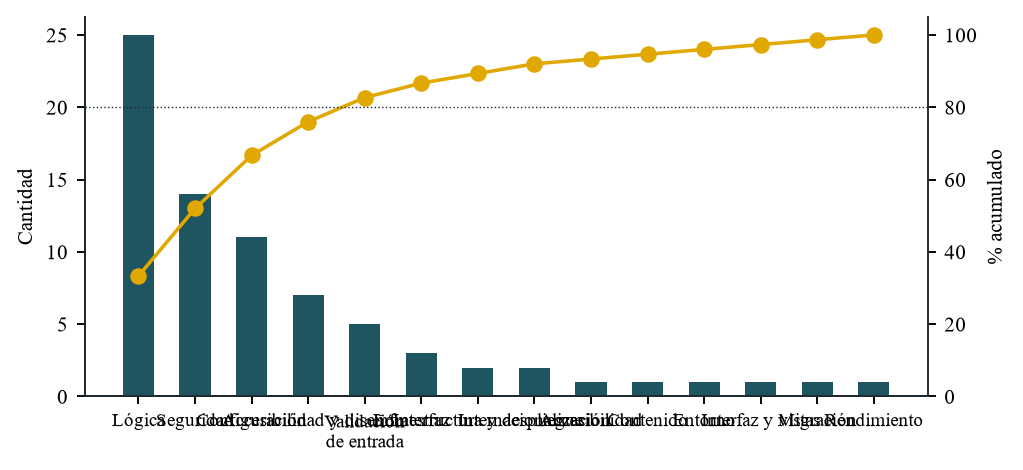
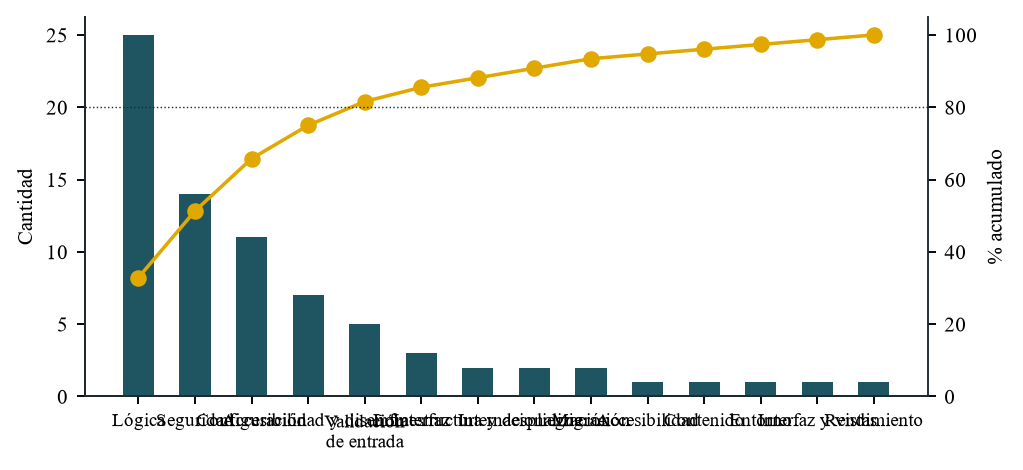
docs: log the Grafana role that the migration could not drop on Supabase

diff --git a/qa/datos_calidad.py b/qa/datos_calidad.py
@@ -314,6 +314,9 @@ DEFECTOS = [
     ('DEF-075', '18-nov-2026', 'Reporte del usuario', 'El administrador no podía activar las notificaciones push en Windows: el botón se quedaba cargando',
      'static/src/js/push_setup.js', 'La página esperaba navigator.serviceWorker.ready, que sólo se cumple con un service worker que controle la página; /web queda fuera del alcance /bus_tracking/ del nuestro y la espera no terminaba.',
      'Lógica', 'Cerrado', 'Chrome (FCM) y Edge (WNS) en Windows: activar, registrar el dispositivo y enviar la prueba; test_push comprueba que no se espera a ready'),
+    ('DEF-076', '18-nov-2026', 'Despliegue de v1.0.0-rc1 en Azure', 'La migración 16.0.1.9.0 no pudo borrar el rol grafana_reader en Supabase',
+     'migrations/16.0.1.9.0/pre-migrate.py', 'Desde PostgreSQL 16, DROP OWNED BY exige ser miembro del rol; el usuario postgres de Supabase no es superusuario y no lo era.',
+     'Migración', 'Cerrado', 'En la base de producción: GRANT al usuario actual, DROP OWNED y DROP ROLE en una transacción, 0 roles restantes; test_migration_grafana'),
 ]
 
 # Ishikawa 1: why bad input reaches the system (DEF-008 to DEF-010).

diff --git a/docs/calidad/05-registro-de-defectos.md b/docs/calidad/05-registro-de-defectos.md
@@ -83,8 +83,9 @@ Cada defecto se registra con tres campos separados: fallo observado, defecto loc
 | DEF-073 | 17-nov-2026 | Reporte en PDF | Descargar el reporte abría «Configure el diseño de sus documentos» en vez del PDF | models/bus_report.py | Cerrado |
 | DEF-074 | 18-nov-2026 | Prueba del tablero de flota | Error del cliente de Odoo al salir del mapa en vivo mientras hace el primer zoom | static/src/js/live_map.js | Cerrado |
 | DEF-075 | 18-nov-2026 | Reporte del usuario | El administrador no podía activar las notificaciones push en Windows: el botón se quedaba cargando | static/src/js/push_setup.js | Cerrado |
+| DEF-076 | 18-nov-2026 | Despliegue de v1.0.0-rc1 en Azure | La migración 16.0.1.9.0 no pudo borrar el rol grafana_reader en Supabase | migrations/16.0.1.9.0/pre-migrate.py | Cerrado |
 
-Resumen: 75 registrados, 75 cerrados (100 %), 0 abiertos. Densidad: 14,9 defectos por KLOC (5,033 KLOC de Python sin pruebas).
+Resumen: 76 registrados, 76 cerrados (100 %), 0 abiertos. Densidad: 15,1 defectos por KLOC (5,033 KLOC de Python sin pruebas).
 
 ## 2. Análisis de causa raíz e impacto
 
@@ -537,6 +538,12 @@ Resumen: 75 registrados, 75 cerrados (100 %), 0 abiertos. Densidad: 14,9 defecto
 - **Causa raíz:** La página esperaba navigator.serviceWorker.ready, que sólo se cumple con un service worker que controle la página; /web queda fuera del alcance /bus_tracking/ del nuestro y la espera no terminaba.
 - **Categoría:** Lógica
 - **Prueba que lo protege:** Chrome (FCM) y Edge (WNS) en Windows: activar, registrar el dispositivo y enviar la prueba; test_push comprueba que no se espera a ready
+
+### DEF-076: La migración 16.0.1.9.0 no pudo borrar el rol grafana_reader en Supabase
+
+- **Causa raíz:** Desde PostgreSQL 16, DROP OWNED BY exige ser miembro del rol; el usuario postgres de Supabase no es superusuario y no lo era.
+- **Categoría:** Migración
+- **Prueba que lo protege:** En la base de producción: GRANT al usuario actual, DROP OWNED y DROP ROLE en una transacción, 0 roles restantes; test_migration_grafana
 
 ## 3. Qué falta para cerrar los abiertos
 

diff --git a/docs/calidad/07-pareto.md b/docs/calidad/07-pareto.md
@@ -22,19 +22,19 @@ Fallos de la suite en vivo (3) y de la auditoría aleatoria (57), por causa. Las
 
 | Categoría | Defectos | % | % acumulado |
 |---|---|---|---|
-| Lógica | 25 | 33,3 % | 33,3 % |
-| Seguridad | 14 | 18,7 % | 52,0 % |
-| Configuración | 11 | 14,7 % | 66,7 % |
-| Accesibilidad y diseño | 7 | 9,3 % | 76,0 % |
-| Validación de entrada | 5 | 6,7 % | 82,7 % |
-| Interfaz | 3 | 4,0 % | 86,7 % |
-| Infraestructura y despliegue | 2 | 2,7 % | 89,3 % |
-| Internacionalización | 2 | 2,7 % | 92,0 % |
-| Accesibilidad | 1 | 1,3 % | 93,3 % |
-| Contenido | 1 | 1,3 % | 94,7 % |
-| Entorno | 1 | 1,3 % | 96,0 % |
-| Interfaz y vistas | 1 | 1,3 % | 97,3 % |
-| Migración | 1 | 1,3 % | 98,7 % |
+| Lógica | 25 | 32,9 % | 32,9 % |
+| Seguridad | 14 | 18,4 % | 51,3 % |
+| Configuración | 11 | 14,5 % | 65,8 % |
+| Accesibilidad y diseño | 7 | 9,2 % | 75,0 % |
+| Validación de entrada | 5 | 6,6 % | 81,6 % |
+| Interfaz | 3 | 3,9 % | 85,5 % |
+| Infraestructura y despliegue | 2 | 2,6 % | 88,2 % |
+| Internacionalización | 2 | 2,6 % | 90,8 % |
+| Migración | 2 | 2,6 % | 93,4 % |
+| Accesibilidad | 1 | 1,3 % | 94,7 % |
+| Contenido | 1 | 1,3 % | 96,1 % |
+| Entorno | 1 | 1,3 % | 97,4 % |
+| Interfaz y vistas | 1 | 1,3 % | 98,7 % |
 | Rendimiento | 1 | 1,3 % | 100,0 % |
 
 **Lectura:** con la auditoría del 2-nov la lógica y la seguridad pasan a encabezar: los defectos ya no están en la entrada de datos sino en reglas que se cumplían sólo en un lado (la vista y no el método, la tableta y no el servidor). No queda ningún defecto abierto.
